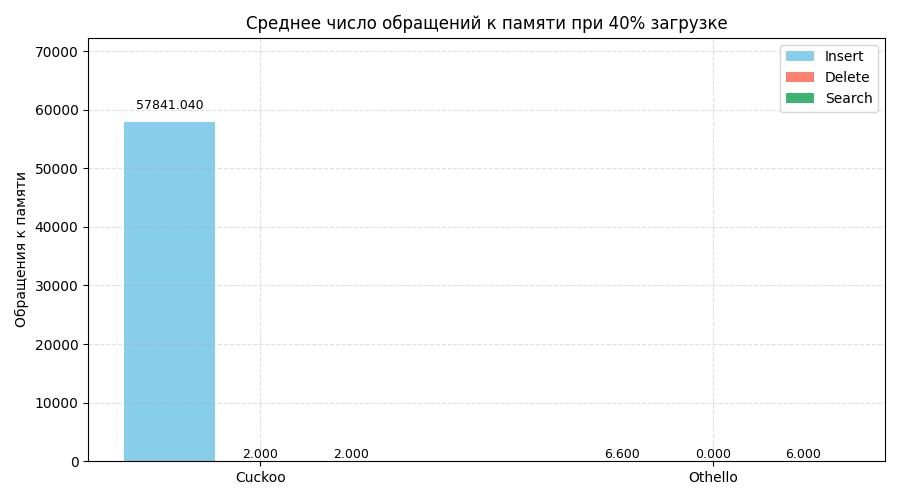
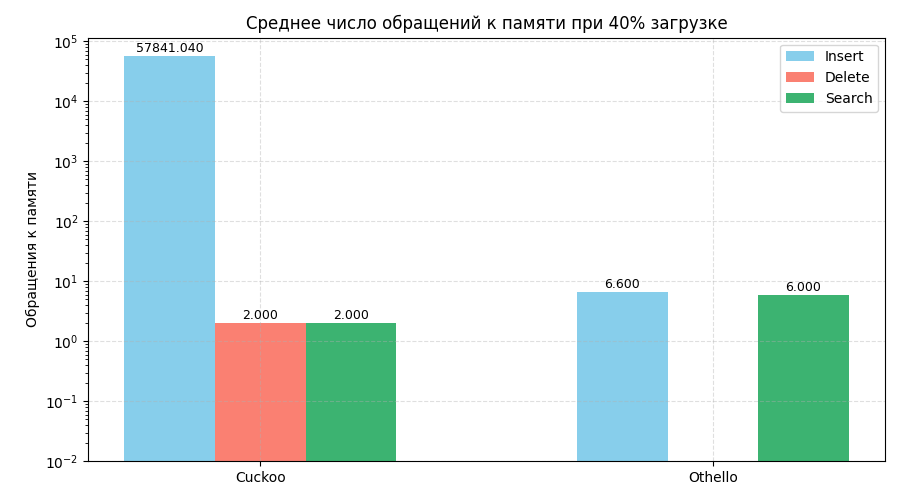
log график для наглядной визуализации

diff --git a/my_code/common.py b/my_code/common.py
@@ -47,7 +47,11 @@ def draw():
     bar_width = 0.2
     x = np.arange(len(labels))
 
-    def plot_comparison(title, y_label, keys, colors, filename):
+    def clean_log_values(values, min_value=1e-6):
+        return [v if v > 0 else min_value for v in values]
+
+
+    def plot_comparison(title, y_label, keys, colors, filename, use_log_scale=False):
         plt.figure(figsize=(9, 5))
         for i, key in enumerate(keys):
             offset = (i - 1) * bar_width  # -0.2, 0, +0.2
@@ -65,9 +69,21 @@ def draw():
         plt.legend()
         plt.grid(True, linestyle='--', alpha=0.4)
         plt.tight_layout()
-        plt.ylim(0, max(max(avg_data[k]) for k in keys) * 1.25)  # запас сверху
+
+        if use_log_scale:
+            plt.yscale('log')
+            max_y = max(max(avg_data[k]) for k in keys)
+            min_y = min(min(avg_data[k]) for k in keys)
+            plt.ylim(bottom=0.01, top=max_y * 2)  # увеличиваем "потолок" в 10 раз
+        else:
+            plt.ylim(0, max(max(avg_data[k]) for k in keys) * 1.25)
         plt.savefig(f'{filename}.png')
         plt.show()
+
+    for key in avg_data:
+        avg_data[key] = clean_log_values(avg_data[key])
+
+    print(avg_data)
 
     # 1. Обращения к памяти
     plot_comparison(
@@ -75,7 +91,8 @@ def draw():
         y_label='Обращения к памяти',
         keys=['insert_mem', 'delete_mem', 'search_mem'],
         colors=['skyblue', 'salmon', 'mediumseagreen'],
-        filename='./images/memory'
+        filename='./images/memory',
+        use_log_scale=True
     )
 
     # 2. Вызовы хеш-функций
@@ -84,7 +101,8 @@ def draw():
         y_label='Вызовы хеш-функции',
         keys=['insert_hash', 'delete_hash', 'search_hash'],
         colors=['skyblue', 'salmon', 'mediumseagreen'],
-        filename='./images/hash'
+        filename='./images/hash',
+        use_log_scale=True
     )
 
     # 3. Время выполнения
@@ -93,7 +111,8 @@ def draw():
         y_label='Время (сек)',
         keys=['insert_time', 'delete_time', 'search_time'],
         colors=['skyblue', 'salmon', 'mediumseagreen'],
-        filename='./images/time'
+        filename='./images/time',
+        use_log_scale=True
     )
 
 def get_keys(json_dict):
